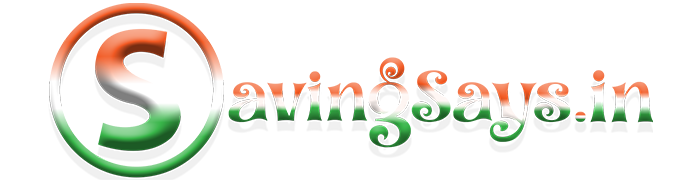
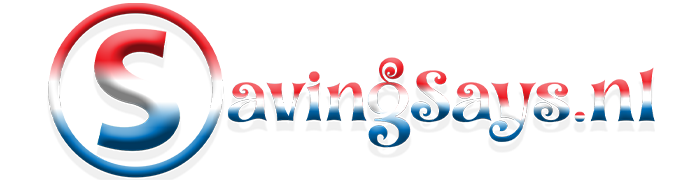
saved

diff --git a/index.html b/index.html
@@ -4,7 +4,7 @@
 <head>
   <meta charset="UTF-8">
   <meta name="viewport" content="width=device-width, initial-scale=1.0">
-  <title>Saving Save IN</title>
+  <title>Saving Save NL</title>
   <link rel="stylesheet" href="./css/domain.css">
   <link rel="stylesheet" href="./css/style.css">
   <link href="https://cdnjs.cloudflare.com/ajax/libs/font-awesome/4.7.0/css/font-awesome.min.css" rel="stylesheet">
